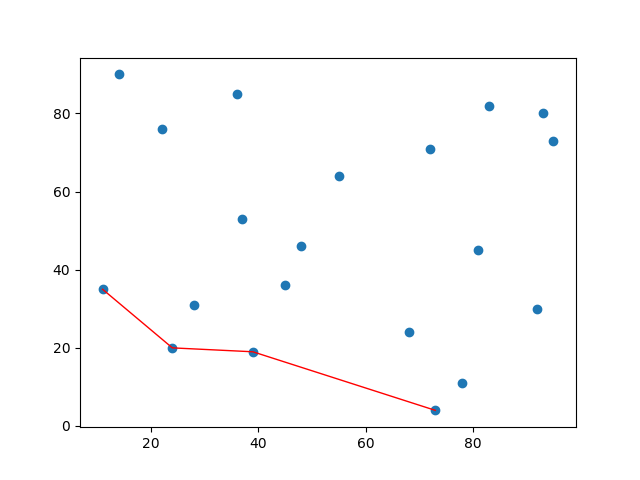
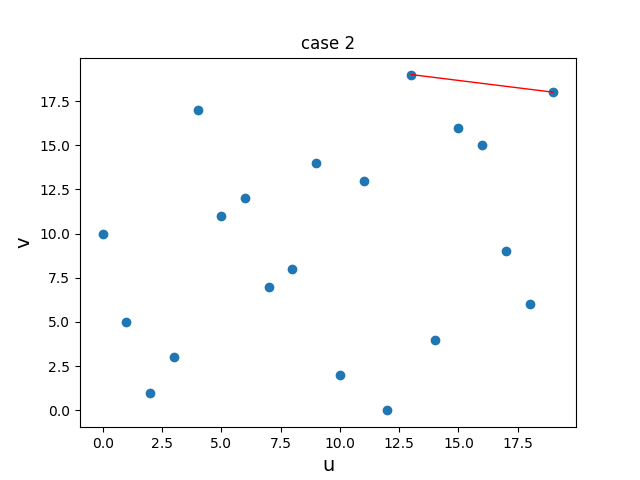
correctly ordered test cases

diff --git a/Assignment 2/solution.py b/Assignment 2/solution.py
@@ -4,45 +4,43 @@ import matplotlib.pyplot as plt
 import random, math, time, sys
 
 # return the pareto front set for the given mode
-def paretoDominant(u, v, mode):
-    if mode == 0: # low u and low v
+def paretofront(u, v, mode):
+    # low u and low v
+    if mode == 1:
         # sort points by y, x, ascending
         points = sorted(zip(u, v), key=lambda k: [k[1], k[0]])
         front = points[0] # starting point will be the left most
         pareto = [front] # store the pareto front set
-        # if x is greater than or equal, add to front
         for p in points:
-            if p[0] >= front[0]:
+            if p[0] >= front[0]: # if x is greater than or equal, add to front
                 front = p
                 pareto.append(front)
-    elif mode == 1: # low u and high v
+    # high u and high v
+    elif mode == 2:
+        points = sorted(zip(u, v), key=lambda k: [k[0], k[1]], reverse=True) # sort by x, y, desc
+        front = points[0] # starting point will be the left most
+        pareto = [front] # store the pareto front set
+        for p in points:
+            if p[1] >= front[1]: # if y is greater than or equal, add to front
+                front = p
+                pareto.append(front)
+    # low u and high v
+    elif mode == 3:
         # sort points by y, x, ascending
         points = sorted(zip(u, v), key=lambda k: [k[1], k[0]])
         front = points[0] # starting point will be the left most
         pareto = [front] # store the pareto front set
-        # if x is less than or equal, add to front
         for p in points:
-            if p[0] <= front[0]:
+            if p[0] <= front[0]: # if x is less than or equal, add to front
                 front = p
                 pareto.append(front)
-    elif mode == 2: # high u and low v
-        # sort points by x, y, ascending
-        points = sorted(zip(u, v), key=lambda k: [k[0], k[1]])
+    # high u and low v
+    elif mode == 4:
+        points = sorted(zip(u, v), key=lambda k: [k[0], k[1]]) # sort by x, y, asc
         front = points[0] # starting point will be the left most
         pareto = [front] # store the pareto front set
-        # if y is greater than or equal to, add to front
         for p in points:
-            if p[1] >= front[1]:
-                front = p
-                pareto.append(front)
-    elif mode == 3: # high u and high v
-        # sort points by x, y, descending
-        points = sorted(zip(u, v), key=lambda k: [k[0], k[1]], reverse=True)
-        front = points[0] # starting point will be the left most
-        pareto = [front] # store the pareto front set
-        # if y is greater than or equal to, add to front
-        for p in points:
-            if p[1] >= front[1]:
+            if p[1] >= front[1]: # if y is greater than or equal, add to front
                 front = p
                 pareto.append(front)
 
@@ -51,15 +49,34 @@ def paretoDominant(u, v, mode):
 
 # draw vector u and v with matplotlib and save as image
 def exportPlot(u, v, pu, pv, ofile):
+    plt.title('case ' + ofile[6:7])     # title for graph
+    plt.xlabel('u', fontsize=14)        # label for x axis
+    plt.ylabel('v', fontsize=14)        # label for y axis
     plt.scatter(u, v)                   # plot points
     plt.plot(pu, pv, color='r', lw='1') # plot pareto set
     plt.savefig(ofile)                  # export plot
-    plt.clf()
+    plt.clf()                           # clear the figure
 
 ######################## MAIN ###########################
-u, v = [random.sample(range(100), 20), random.sample(range(100), 20)] # random vectors
-for case in range(0, 4):
-    pareto = paretoDominant(u, v, case)
-    pu = [i[0] for i in pareto] # get x-vals for pareto front set
-    pv = [i[1] for i in pareto] # get y-vals for pareto front set
-    exportPlot(u, v, pu, pv, 'output' + str(case+1) + '.png')
+u, v = [random.sample(range(20), 20), random.sample(range(20), 20)] # random vectors
+print "points:\n", zip(u, v) # print list of points
+
+# CASE 1 - low values for u and v are desirable
+pareto = paretofront(u, v, 1) # get pareto set for points with given mode
+print "low u low v:\n", pareto[1:] # print pareto set
+exportPlot(u, v, [i[0] for i in pareto], [i[1] for i in pareto], 'output1.png') # plot the points
+
+# CASE 2 - high values for u and v are desirable
+pareto = paretofront(u, v, 2) # get pareto set for points with given mode
+print "high u high v:\n", pareto[1:] # print pareto set
+exportPlot(u, v, [i[0] for i in pareto], [i[1] for i in pareto], 'output2.png') # plot the points
+
+# CASE 3 - low values for u and high values for v are desirable
+pareto = paretofront(u, v, 3) # get pareto set for points with given mode
+print "low u high v:\n", pareto[1:] # print pareto set
+exportPlot(u, v, [i[0] for i in pareto], [i[1] for i in pareto], 'output3.png') # plot the points
+
+# CASE 4 - high values for u and low values for v are desirable
+pareto = paretofront(u, v, 4) # get pareto set for points with given mode
+print "high u low v:\n", pareto[1:] # print pareto set
+exportPlot(u, v, [i[0] for i in pareto], [i[1] for i in pareto], 'output4.png') # plot the points
